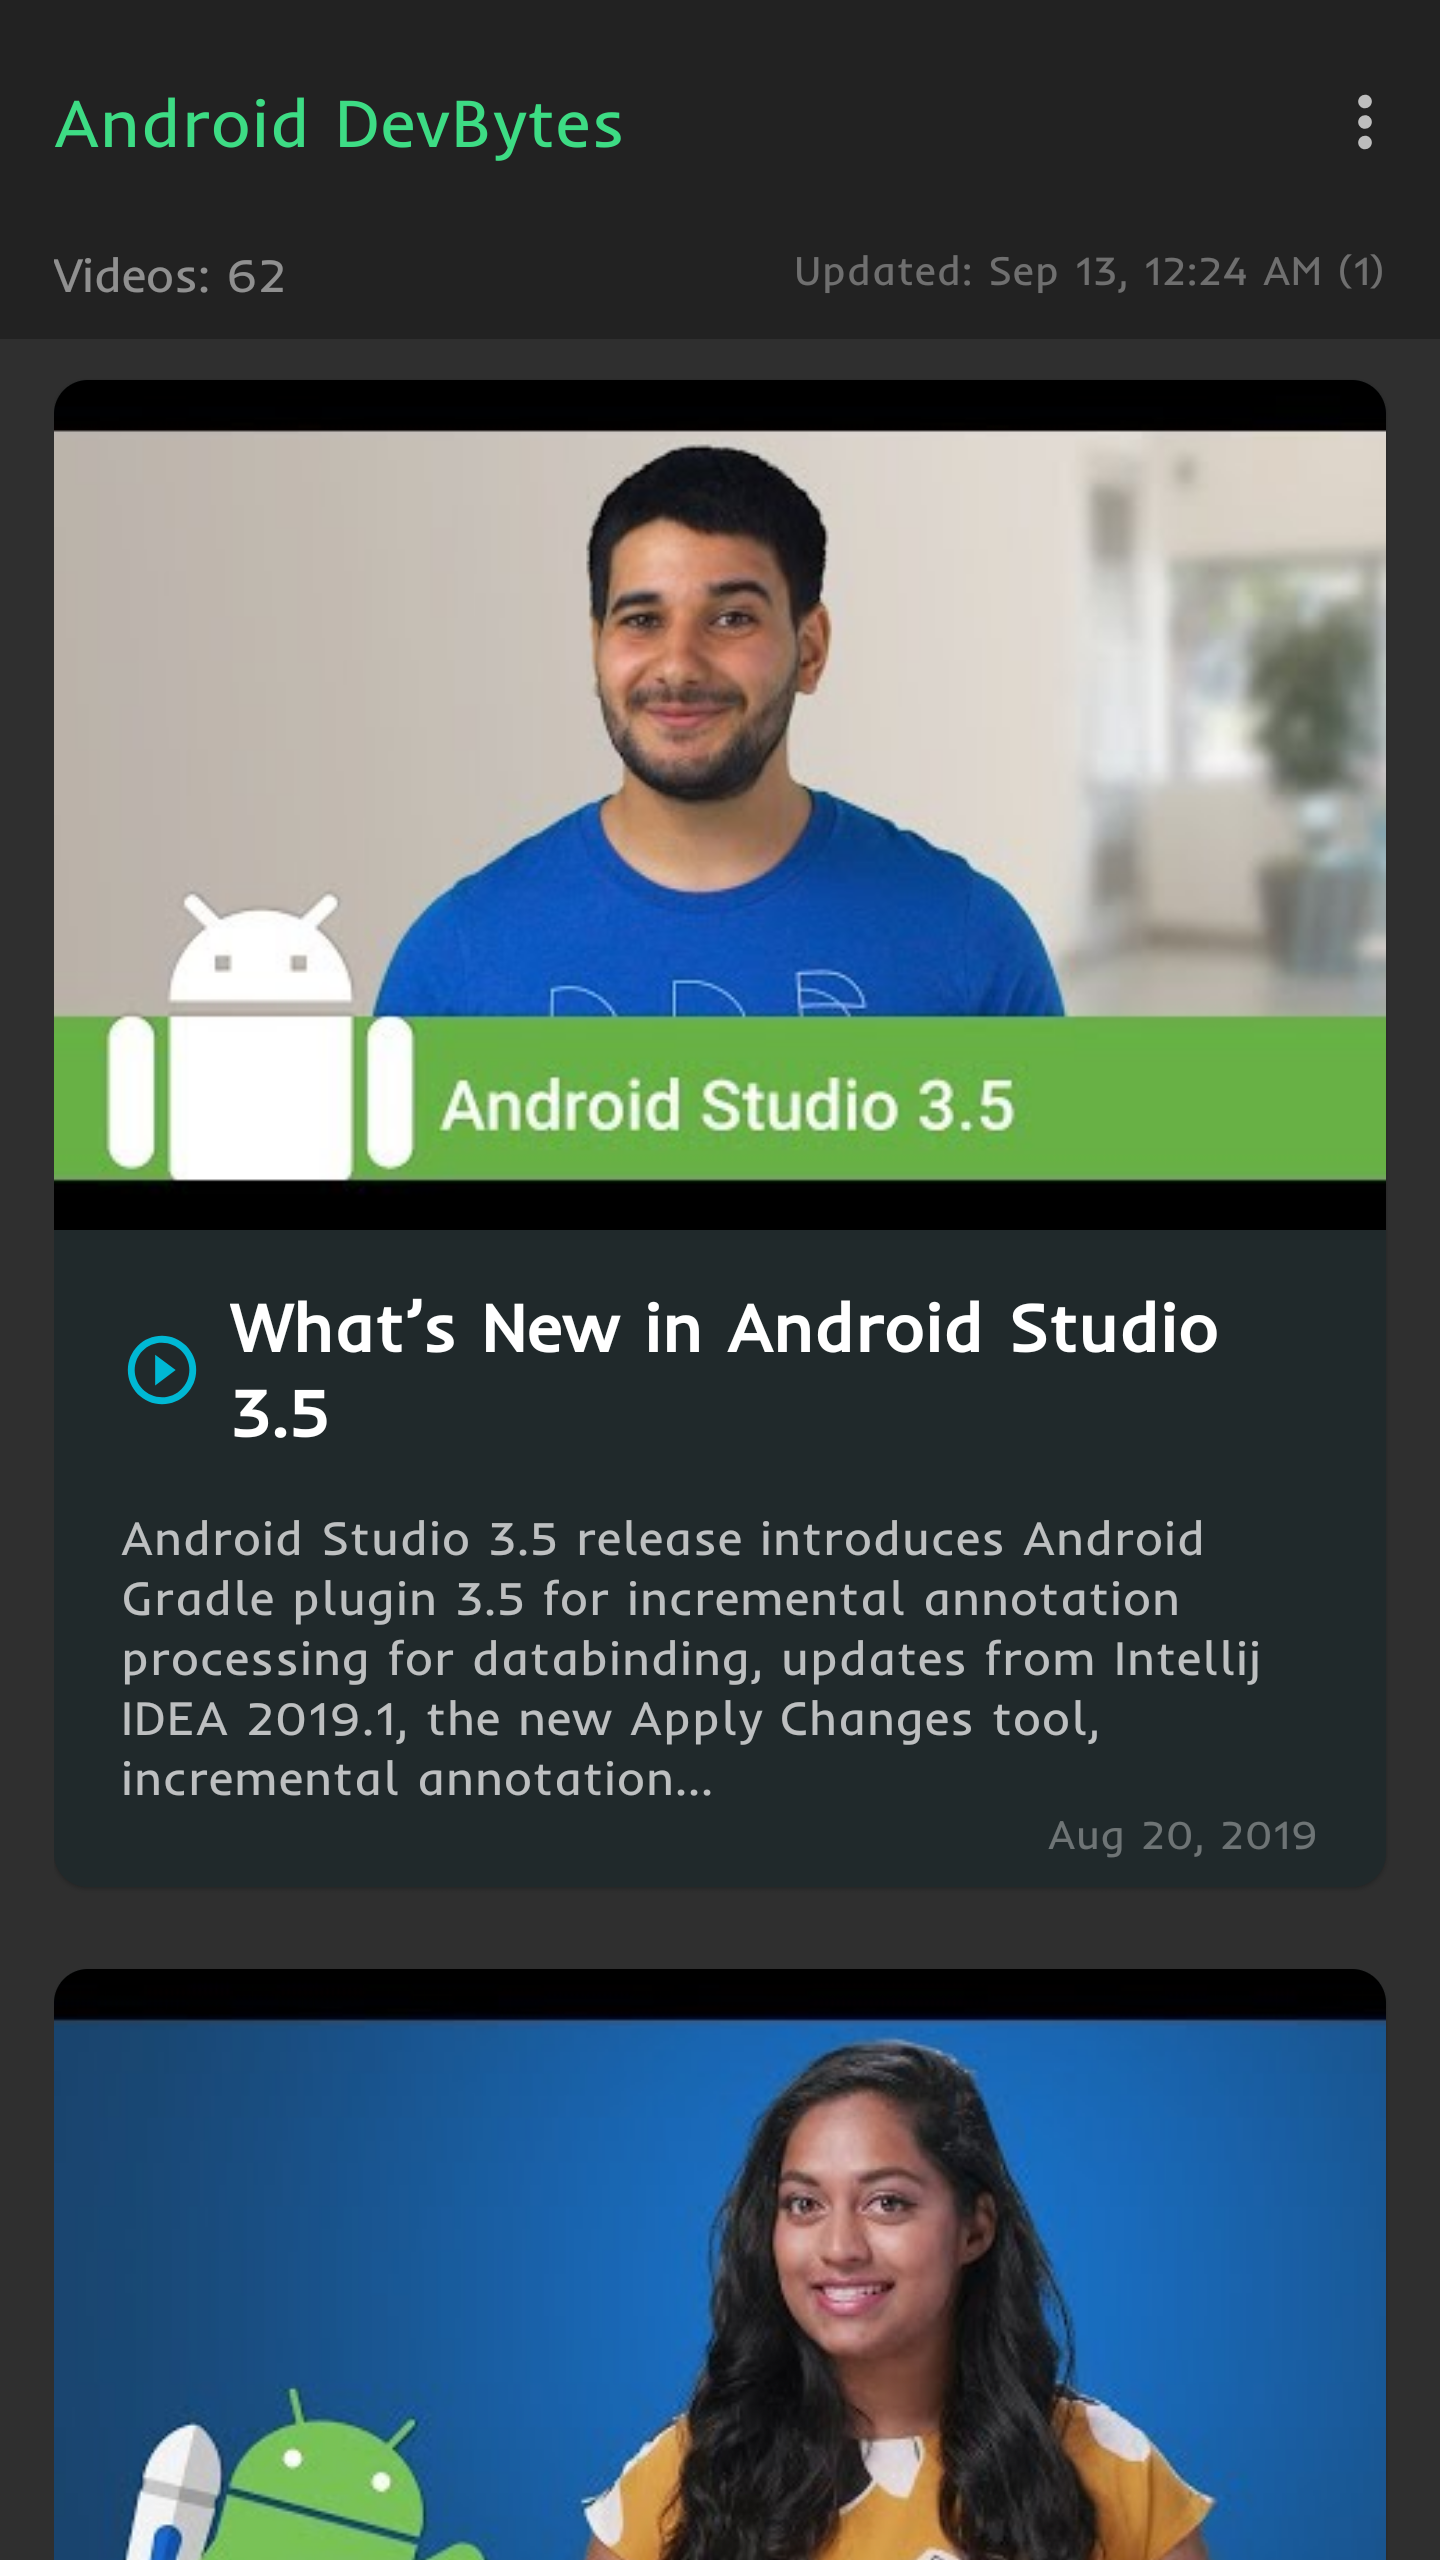
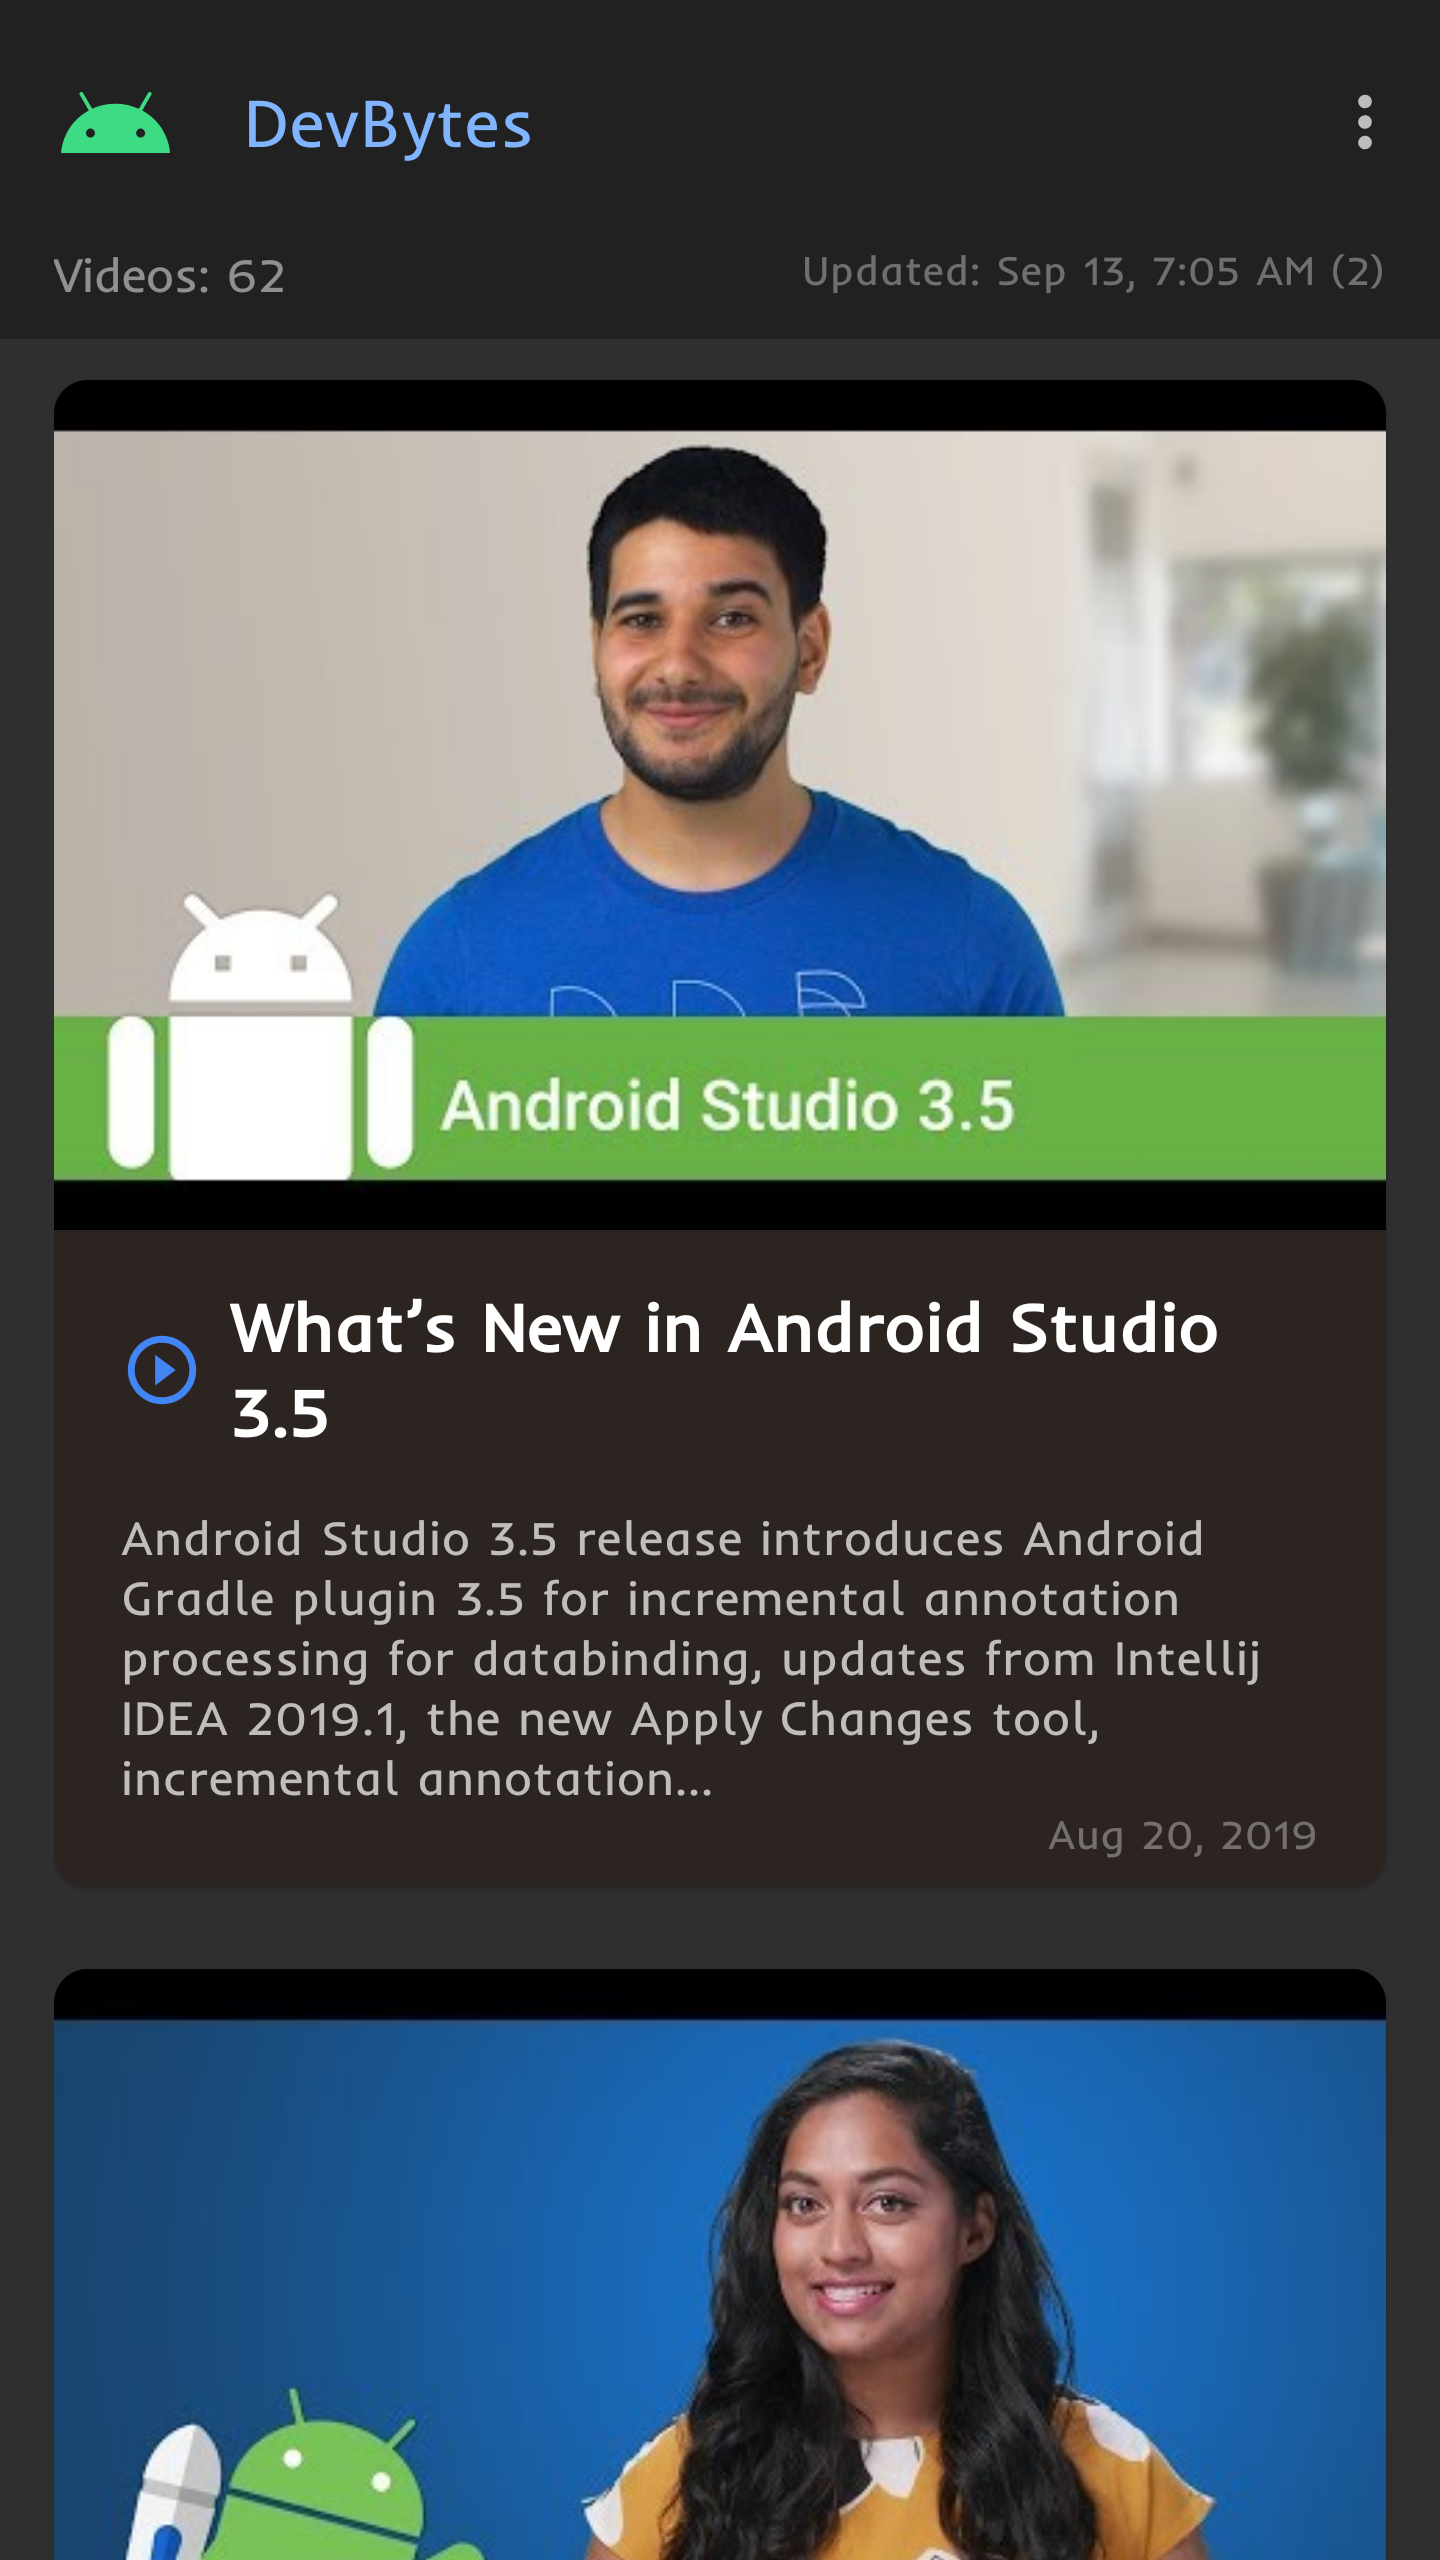
a light update of UI

Changed region(s): [[0.0312, 0.0312, 0.4375, 0.0625], [0.5625, 0.0938, 0.9375, 0.125], [0.0938, 0.5, 0.125, 0.5625]]

diff --git a/app/src/main/java/maxeem/america/devbytes/util/Utils.kt b/app/src/main/java/maxeem/america/devbytes/util/Utils.kt
@@ -6,6 +6,7 @@ import maxeem.america.devbytes.app
 
 object Utils {
 
+    @JvmStatic
     fun fromHtml(s: String) = HtmlCompat.fromHtml(s, HtmlCompat.FROM_HTML_MODE_COMPACT)
 
     fun formatError(msgId: Int, err: Throwable) = formatError(msgId.asString(), err)
